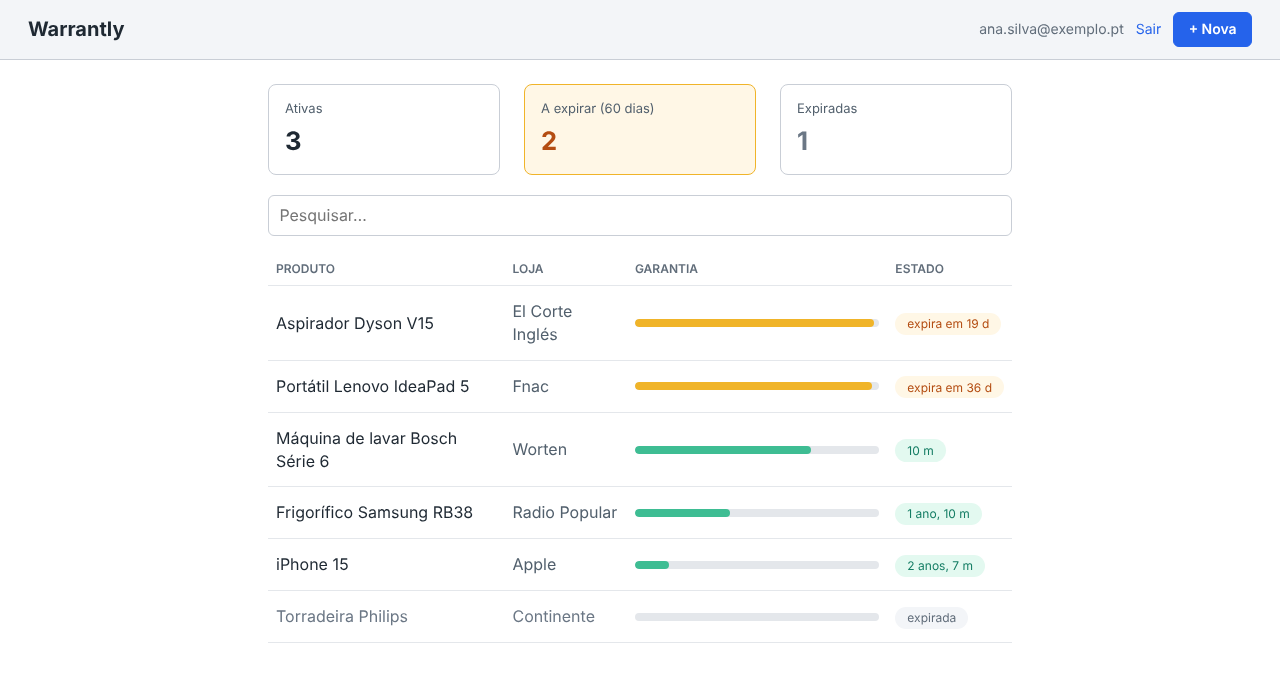
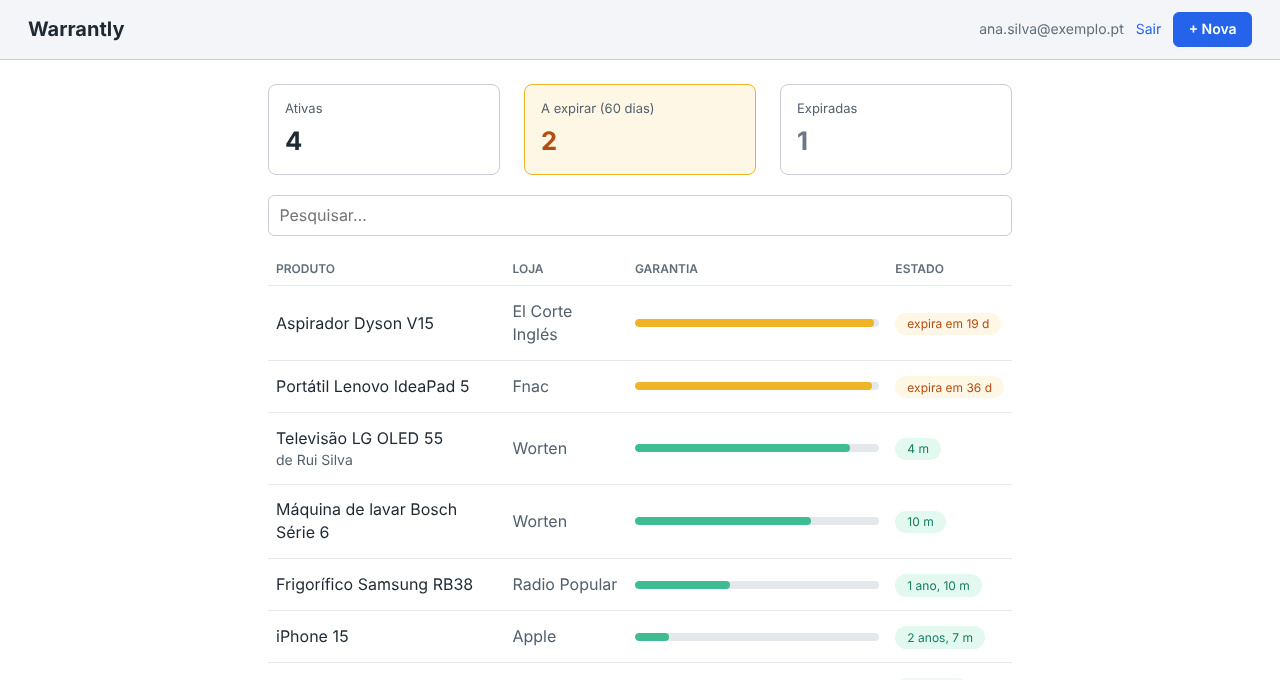
README screenshots: family sharing section and a shared purchase
Claude-Session: https://claude.ai/code/session_01FZ5MXtw4SdJhjfhCKnEQap

diff --git a/frontend/e2e/screenshots.spec.ts b/frontend/e2e/screenshots.spec.ts
@@ -1,5 +1,5 @@
 import { expect, test } from '@playwright/test'
-import type { Page } from '@playwright/test'
+import type { APIRequestContext, Page } from '@playwright/test'
 
 import { confirmEmail, createPurchase, dateFromToday, PASSWORD } from './helpers'
 
@@ -11,6 +11,9 @@ const INVOICE = new URL('./fixtures/fatura.pdf', import.meta.url).pathname
 
 // Uma conta de exemplo (nome fictício), apagada no fim; não aparece o email de teste e2e-….
 const EMAIL = 'ana.silva@exemplo.pt'
+// A família da Ana, para a partilha: o Rui partilha o arquivo com ela, e ela com o Rui e a Maria.
+const FAMILY_EMAIL = 'rui.silva@exemplo.pt'
+const PENDING_EMAIL = 'maria.silva@exemplo.pt'
 
 // O browser das capturas passa por um Chrome no Windows (na lista de sessões da conta).
 test.use({
@@ -41,6 +44,14 @@ async function signIn(page: Page): Promise<string> {
       headers: { Authorization: `Bearer ${token}` },
     })
   }
+  const sharing = (await (
+    await page.request.get('/api/sharing', { headers: { Authorization: `Bearer ${token}` } })
+  ).json()) as { members: { id: number }[] }
+  for (const { id } of sharing.members) {
+    await page.request.delete(`/api/sharing/${id}`, {
+      headers: { Authorization: `Bearer ${token}` },
+    })
+  }
   return token // o cookie do login fica no browser, que pede com ele o token de acesso
 }
 
@@ -68,13 +79,63 @@ async function seed(page: Page) {
   return { ids, token }
 }
 
+/**
+ * O Rui, com uma compra, partilha o arquivo com a Ana, que aceita; a Ana partilha o dela com o
+ * Rui (aceite) e com a Maria (ainda por aceitar). O Rui entra pelo `request`, que tem os seus
+ * próprios cookies: o browser continua com a sessão da Ana.
+ */
+async function seedFamily(page: Page, request: APIRequestContext, anaToken: string) {
+  const login = () =>
+    request.post('/api/auth/login', { form: { username: FAMILY_EMAIL, password: PASSWORD } })
+  let response = await login()
+  if (response.ok()) {
+    // Ficou de uma corrida anterior: começa do zero.
+    const { access_token: old } = (await response.json()) as { access_token: string }
+    await request.delete('/api/auth/me', {
+      data: { password: PASSWORD },
+      headers: { Authorization: `Bearer ${old}` },
+    })
+  }
+  await request.post('/api/auth/register', {
+    data: { email: FAMILY_EMAIL, password: PASSWORD, full_name: 'Rui Silva' },
+  })
+  await confirmEmail(page, FAMILY_EMAIL)
+  response = await login()
+  const { access_token: rui } = (await response.json()) as { access_token: string }
+  await createPurchase(page, rui, {
+    product_name: 'Televisão LG OLED 55',
+    store: 'Worten',
+    category: 'Televisões',
+    purchase_date: dateFromToday(-31, -20),
+    price: '1199.00',
+  })
+  const ana = { Authorization: `Bearer ${anaToken}` }
+  const invite = async (from: string, email: string) =>
+    (await (
+      await page.request.post('/api/sharing', {
+        data: { email },
+        headers: { Authorization: `Bearer ${from}` },
+      })
+    ).json()) as { id: number }
+  const fromRui = await invite(rui, EMAIL)
+  await page.request.post(`/api/sharing/${fromRui.id}/accept`, { headers: ana })
+  const toRui = await invite(anaToken, FAMILY_EMAIL)
+  await page.request.post(`/api/sharing/${toRui.id}/accept`, {
+    headers: { Authorization: `Bearer ${rui}` },
+  })
+  await invite(anaToken, PENDING_EMAIL)
+  return rui
+}
+
 test('capturas do README', async ({ page, request }) => {
   test.setTimeout(60_000)
   await page.setViewportSize({ width: 1280, height: 680 })
   const { ids, token } = await seed(page)
+  const ruiToken = await seedFamily(page, request, token)
 
   await page.goto('/')
   await expect(page.getByText('Torradeira Philips')).toBeVisible()
+  await expect(page.getByText('de Rui Silva')).toBeVisible() // a compra do arquivo do Rui
   await page.screenshot({ path: `${OUT}painel.png` })
 
   await page.emulateMedia({ colorScheme: 'dark' })
@@ -117,14 +178,21 @@ test('capturas do README', async ({ page, request }) => {
   await expect(sessions.getByRole('listitem')).toHaveCount(3)
   await sessions.screenshot({ path: `${OUT}conta.png` })
 
+  // Partilha: o arquivo do Rui partilhado com a Ana, e o dela com o Rui e a Maria.
+  const sharing = page.getByRole('region', { name: 'Partilha' })
+  await expect(sharing.getByText('Ainda não aceitou')).toBeVisible()
+  await sharing.screenshot({ path: `${OUT}partilha.png` })
+
   // Telemóvel.
   await page.setViewportSize({ width: 390, height: 844 })
   await page.goto('/')
   await expect(page.getByText('Torradeira Philips')).toBeVisible()
   await page.screenshot({ path: `${OUT}telemovel.png` })
 
-  await page.request.delete('/api/auth/me', {
-    data: { password: PASSWORD },
-    headers: { Authorization: `Bearer ${token}` },
-  })
+  for (const owner of [token, ruiToken]) {
+    await page.request.delete('/api/auth/me', {
+      data: { password: PASSWORD },
+      headers: { Authorization: `Bearer ${owner}` },
+    })
+  }
 })

diff --git a/DEVLOG.md b/DEVLOG.md
@@ -368,6 +368,17 @@
     - E2E: o teste do registo abre o link do email gravado e vê o aviso desaparecer. O `signUp` dos outros testes confirma o email pela API.
   - **Lição:** o `make_user` dos testes passou a criar contas confirmadas. Assim, os quase 300 testes que já existiam não mudaram, e só os testes novos pedem uma conta por confirmar.
 
+- **2026-10-19 (sessão cloud do Claude Code):** capturas do README com a partilha.
+  - **O `npm run screenshots` cria agora a família da Ana:**
+    - o Rui Silva, com uma televisão, partilha o arquivo com a Ana, e ela aceita;
+    - a Ana partilha o dela com o Rui (aceite) e com a Maria (por aceitar).
+  - **Onde aparece:** a televisão aparece no painel com "de Rui Silva", e há uma captura nova, `partilha.png`, ao lado da das sessões no README.
+  - **Cuidados:**
+    - o Rui entra pelo `request` do Playwright, com os seus próprios cookies, para o browser continuar com a sessão da Ana;
+    - as contas são apagadas no fim e, se ficarem de uma corrida que falhou, no início;
+    - os convites da Ana também são limpos no início, senão o convite da Maria daria 409 na segunda corrida.
+  - As outras capturas mudaram por causa das datas e da compra nova no painel.
+
 ## Plano para a próxima sessão (desktop ou portátil, 2–3h)
 
 Contexto: de 2026-10-14 a 2026-10-16 trabalhei em sessões cloud do Claude Code, sem Docker, dev container nem conta AWS. Entraram no `main` 46 PRs. Tudo está testado no CI: backend com 299 testes, frontend com 98, app móvel com 62, 25 E2E com Playwright, a imagem Docker testada com E2E, e o Terraform validado. O deploy passou do Fly.io para a **AWS**, numa arquitetura serverless ([ADR 0002](docs/adr/0002-arquitetura-serverless.md)). **Ainda nada correu no dev container, no Codespace nem na AWS.**

diff --git a/README.md b/README.md
@@ -13,7 +13,7 @@ Site (React), app móvel (Expo) e API (FastAPI + PostgreSQL), com infraestrutura
 
 > **Estado:** a app está completa e testada no CI. O deploy na AWS está todo descrito em Terraform e é o próximo passo ([`docs/cloud.md`](docs/cloud.md)).
 
-![Painel com as garantias, das que expiram primeiro às já expiradas](docs/images/painel.png)
+![Painel com as garantias, das que expiram primeiro às já expiradas, incluindo uma televisão partilhada pelo Rui Silva](docs/images/painel.png)
 
 | Registar uma compra: a fatura é lida e os campos preenchidos | Reclamação à loja, pronta a enviar |
 | --- | --- |
@@ -23,9 +23,9 @@ Site (React), app móvel (Expo) e API (FastAPI + PostgreSQL), com infraestrutura
 | --- | --- |
 | ![Painel no modo escuro](docs/images/painel-escuro.png) | ![Painel num ecrã de telemóvel](docs/images/telemovel.png) |
 
-| Sessões na conta: terminar a de um telemóvel perdido |
-| --- |
-| ![Lista de sessões com o Chrome no Windows marcado como este aparelho, um Pixel 8 com a app e um iPhone, cada um com o botão Terminar](docs/images/conta.png) |
+| Partilha com a família | Sessões na conta: terminar a de um telemóvel perdido |
+| --- | --- |
+| ![Secção Partilha: o arquivo do Rui Silva partilhado com a Ana, e o dela partilhado com o Rui (aceite) e com a Maria (ainda por aceitar)](docs/images/partilha.png) | ![Lista de sessões com o Chrome no Windows marcado como este aparelho, um Pixel 8 com a app e um iPhone, cada um com o botão Terminar](docs/images/conta.png) |
 
 ## O problema
 
